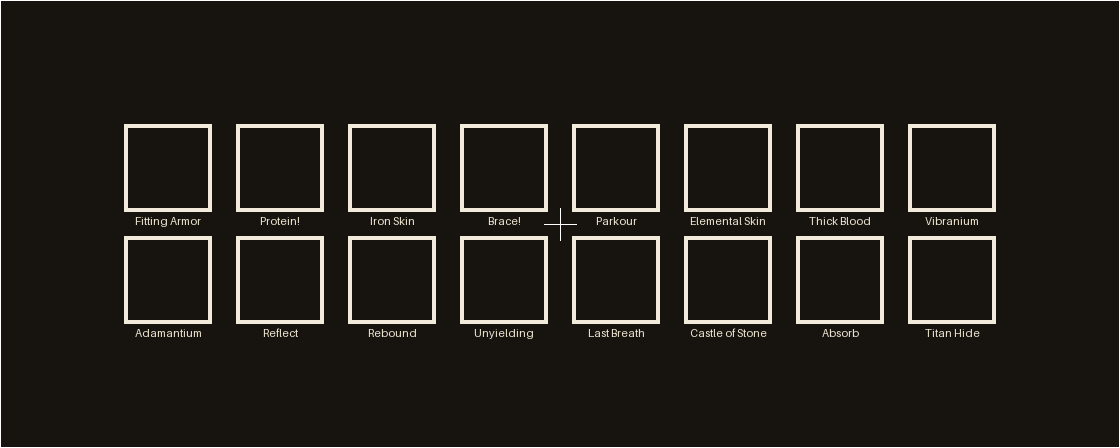
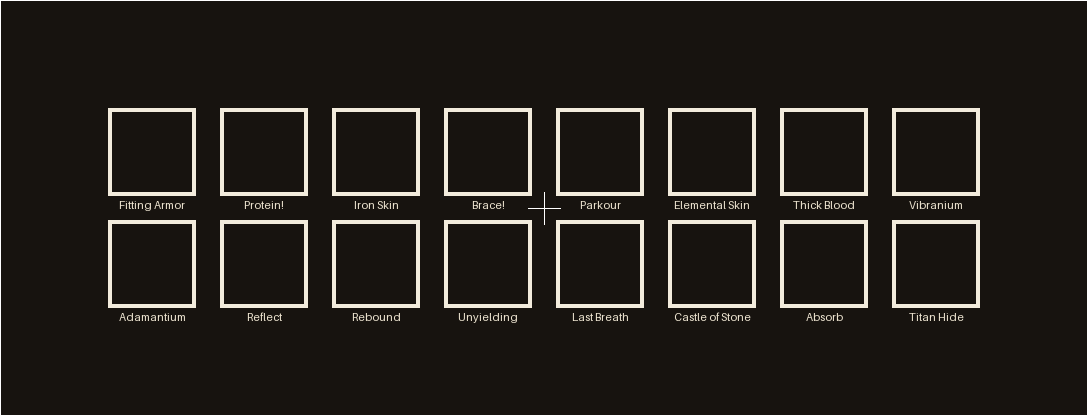
Hub: universal Majors that need a weapon sit between Master of Arms and that weapon
Batter Up!/Aura Sword (Sword), Heavy Hands (Axe), Catch! (Trident) and Death From
Above (Mace) move from the bottom row onto the line from the middle to their
weapon. Rings widened to make room; weapon names sit on the side toward the
middle. Templates redrawn (Combat 432x320).

Claude-Session: https://claude.ai/code/session_011H4pCWwvStbR6tnDaE5M5J

Changed region(s): [[0.0938, 0.25, 0.9062, 0.7812]]

diff --git a/src/client/java/com/freshorangeslices/bloomlevelup/client/gui/HubScreen.java b/src/client/java/com/freshorangeslices/bloomlevelup/client/gui/HubScreen.java
@@ -50,9 +50,10 @@ import com.freshorangeslices.bloomlevelup.progression.ProgressionService;
  * advancements screen) over the tab's own background picture (any size, centred on its Majors):
  * <ul>
  *   <li>a category with weapon trees (Combat) is a tree: the waiver Major (Master of Arms) in the middle, a node
- *   per weapon around it with that weapon's Majors just outside it, and the universal Majors in a row along
- *   the bottom. Lines run from the middle to each weapon and from each weapon to its Majors, and turn red when
- *   a Major on them is active;</li>
+ *   per weapon around it with that weapon's Majors just outside it, the universal Majors that need a weapon
+ *   (Heavy Hands, Catch!, ...) on the line between the middle and that weapon, and the rest of the universal
+ *   Majors in a row along the bottom. Lines run from the middle to each weapon and from each weapon to its
+ *   Majors, and turn red when a Major on them is active;</li>
  *   <li>other categories lay their Majors out as a grid.</li>
  * </ul>
  * A compact stats window sits in the top-left corner and folds away to give the Majors more room.
@@ -85,12 +86,17 @@ public final class HubScreen extends Screen {
 	private static final long RESULT_SHOW_MS = 3500;
 
 	/** Tree layout, in canvas coordinates with the middle (Master of Arms) at 0,0. */
-	private static final double WEAPON_RX = 100.0;
-	private static final double WEAPON_RY = 54.0;
-	private static final double MAJOR_RX = 168.0;
-	private static final double MAJOR_RY = 96.0;
-	private static final int UNIVERSALS_GAP = 30;
+	private static final double WEAPON_RX = 110.0;
+	private static final double WEAPON_RY = 72.0;
+	private static final double MAJOR_RX = 178.0;
+	private static final double MAJOR_RY = 104.0;
+	private static final int UNIVERSALS_GAP = 22;
 	private static final int UNIVERSALS_PER_ROW = 13;
+	/** How far out a weapon's universal Majors sit on the line from the middle (0) to that weapon (1). */
+	private static final double SPOKE_FRACTION = 0.55;
+	/** Room kept around a node (its glow) when working out the tab's extent. */
+	private static final int NODE_MARGIN = 14;
+	// docs/art/hub-templates/make_templates.py mirrors this layout: keep the two in step.
 
 	/** Majors per row on tabs without weapon trees (fixed, so background art can be painted around them). */
 	private static final int GRID_COLUMNS = 8;
@@ -365,10 +371,10 @@ public final class HubScreen extends Screen {
 		maxX = maxY = Integer.MIN_VALUE;
 
 		for (Node node : nodes) {
-			minX = Math.min(minX, node.x() - 16);
-			maxX = Math.max(maxX, node.x() + 16);
-			minY = Math.min(minY, node.y() - 16);
-			maxY = Math.max(maxY, node.y() + (node.group() != null ? 24 : 16));
+			minX = Math.min(minX, node.x() - NODE_MARGIN);
+			maxX = Math.max(maxX, node.x() + NODE_MARGIN);
+			minY = Math.min(minY, node.y() - NODE_MARGIN);
+			maxY = Math.max(maxY, node.y() + NODE_MARGIN);
 		}
 
 		if (nodes.isEmpty()) {
@@ -378,14 +384,25 @@ public final class HubScreen extends Screen {
 
 	private void treeLayout(List<MajorDefinition> majors) {
 		Map<String, List<MajorDefinition>> trees = new LinkedHashMap<>();
+		Map<String, List<MajorDefinition>> nearTree = new HashMap<>();
 		List<MajorDefinition> middle = new ArrayList<>();
 		List<MajorDefinition> universal = new ArrayList<>();
 
 		for (MajorDefinition major : majors) {
+			major.group().ifPresent(group -> trees.computeIfAbsent(group, k -> new ArrayList<>()).add(major));
+		}
+
+		for (MajorDefinition major : majors) {
 			if (major.group().isPresent()) {
-				trees.computeIfAbsent(major.group().get(), k -> new ArrayList<>()).add(major);
-			} else if (!major.waives().isEmpty()) {
+				continue;
+			}
+
+			String tree = weaponTreeNeeded(major);
+
+			if (!major.waives().isEmpty()) {
 				middle.add(major);
+			} else if (tree != null && trees.containsKey(tree)) {
+				nearTree.computeIfAbsent(tree, k -> new ArrayList<>()).add(major);
 			} else {
 				universal.add(major);
 			}
@@ -404,9 +421,21 @@ public final class HubScreen extends Screen {
 			double angle = -Math.PI / 2.0 + 2.0 * Math.PI * index / count;
 			int wx = (int) Math.round(Math.cos(angle) * WEAPON_RX);
 			int wy = (int) Math.round(Math.sin(angle) * WEAPON_RY);
-			List<String> ids = tree.getValue().stream().map(MajorDefinition::id).toList();
+			List<MajorDefinition> near = nearTree.getOrDefault(tree.getKey(), List.of());
+			List<String> ids = new ArrayList<>(tree.getValue().stream().map(MajorDefinition::id).toList());
+			near.forEach(major -> ids.add(major.id()));
 			nodes.add(new Node(null, tree.getKey(), wx, wy, false));
 			links.add(new Link(0, 0, wx, wy, ids));
+
+			// The universal Majors that need this weapon: on the line between the middle and the weapon, side by side.
+			double sx = Math.cos(angle) * WEAPON_RX * SPOKE_FRACTION;
+			double sy = Math.sin(angle) * WEAPON_RY * SPOKE_FRACTION;
+
+			for (int j = 0; j < near.size(); j++) {
+				double offset = (j - (near.size() - 1) / 2.0) * CELL;
+				nodes.add(new Node(near.get(j), null, (int) Math.round(sx - Math.sin(angle) * offset), (int) Math.round(sy + Math.cos(angle) * offset),
+						false));
+			}
 
 			double ax = Math.cos(angle) * MAJOR_RX;
 			double ay = Math.sin(angle) * MAJOR_RY;
@@ -438,6 +467,17 @@ public final class HubScreen extends Screen {
 			int col = k % UNIVERSALS_PER_ROW;
 			nodes.add(new Node(universal.get(k), null, (int) Math.round((col - (inRow - 1) / 2.0) * CELL), top + row * CELL, false));
 		}
+	}
+
+	/** The weapon tree a universal Major needs (its first "#tree" prerequisite), or null. */
+	private static String weaponTreeNeeded(MajorDefinition major) {
+		for (String prerequisite : major.prerequisites()) {
+			if (MajorDefinition.isGroupRef(prerequisite)) {
+				return MajorDefinition.groupOf(prerequisite);
+			}
+		}
+
+		return null;
 	}
 
 	private void gridLayout(List<MajorDefinition> majors) {
@@ -672,12 +712,14 @@ public final class HubScreen extends Screen {
 			g.item(treeItem(node.group()), cx - 8, cy - 8);
 		}
 
-		// The tree's name underneath, small, on a dark backing so it reads over lines and art.
+		// The tree's name, small, on a dark backing so it reads over lines and art; on the side toward the middle
+		// (under the weapons in the top half, over those in the bottom half), clear of the weapon's own Majors.
 		Component label = Component.literal(capitalize(treeName(node.group())));
 		int half = (int) Math.ceil(this.font.width(label) * 0.75 / 2.0) + 1;
-		g.fill(cx - half, cy + 14, cx + half, cy + 21, 0xA0000000);
+		int labelY = node.y() > 0 ? cy - 21 : cy + 14;
+		g.fill(cx - half, labelY, cx + half, labelY + 7, 0xA0000000);
 		g.pose().pushMatrix();
-		g.pose().translate(cx, cy + 15);
+		g.pose().translate(cx, labelY + 1);
 		g.pose().scale(0.75F);
 		g.centeredText(this.font, label, 0, 0, anyOwned ? TEXT : MUTED);
 		g.pose().popMatrix();

diff --git a/docs/art/hub-templates/make_templates.py b/docs/art/hub-templates/make_templates.py
@@ -20,8 +20,10 @@ OUT = pathlib.Path(__file__).resolve().parent
 
 # HubScreen constants
 CELL, ICON = 28, 22
-WEAPON_RX, WEAPON_RY, MAJOR_RX, MAJOR_RY = 100.0, 54.0, 168.0, 96.0
-UNIVERSALS_GAP, UNIVERSALS_PER_ROW, GRID_COLUMNS = 30, 13, 8
+WEAPON_RX, WEAPON_RY, MAJOR_RX, MAJOR_RY = 110.0, 72.0, 178.0, 104.0
+UNIVERSALS_GAP, UNIVERSALS_PER_ROW, GRID_COLUMNS = 22, 13, 8
+SPOKE_FRACTION = 0.55
+NODE_MARGIN = 14  # HubScreen.layout: room around a node for its glow
 MARGIN = 24  # suggested picture edge beyond the outermost node
 
 
@@ -48,6 +50,7 @@ def majors_in(tab):
             'sort': raw.get('sort', 0),
             'group': qualify(raw['group']) if 'group' in raw else None,
             'waives': raw.get('waives', []),
+            'tree': next((qualify(p[1:]) for p in raw.get('prerequisites', []) if p.startswith('#')), None),
         })
 
     return sorted(majors, key=lambda m: (m['sort'], m['id']))
@@ -62,13 +65,19 @@ def layout(majors):
             nodes.append(('major', m['id'], (k % GRID_COLUMNS) * CELL, (k // GRID_COLUMNS) * CELL))
         return nodes, lines
 
-    trees, middle, universal = {}, [], []
+    trees, middle, universal, near = {}, [], [], {}
 
     for m in majors:
         if m['group']:
             trees.setdefault(m['group'], []).append(m)
-        elif m['waives']:
+
+    for m in majors:
+        if m['group']:
+            continue
+        if m['waives']:
             middle.append(m)
+        elif m['tree'] in trees:
+            near.setdefault(m['tree'], []).append(m)
         else:
             universal.append(m)
 
@@ -80,6 +89,14 @@ def layout(majors):
         wx, wy = jround(math.cos(angle) * WEAPON_RX), jround(math.sin(angle) * WEAPON_RY)
         nodes.append(('weapon', group, wx, wy))
         lines.append((0, 0, wx, wy))
+        # Universal Majors that need this weapon: on the line between the middle and the weapon.
+        sx, sy = math.cos(angle) * WEAPON_RX * SPOKE_FRACTION, math.sin(angle) * WEAPON_RY * SPOKE_FRACTION
+        px_, py_ = -math.sin(angle), math.cos(angle)
+        dependents = near.get(group, [])
+
+        for j, m in enumerate(dependents):
+            offset = (j - (len(dependents) - 1) / 2.0) * CELL
+            nodes.append(('major', m['id'], jround(sx + px_ * offset), jround(sy + py_ * offset)))
         ax, ay = math.cos(angle) * MAJOR_RX, math.sin(angle) * MAJOR_RY
         tx, ty = -math.sin(angle) * MAJOR_RX, math.cos(angle) * MAJOR_RY
         length = max(1e-6, math.hypot(tx, ty))
@@ -110,10 +127,10 @@ def name(kind, ref):
 
 def make(tab):
     nodes, lines = layout(majors_in(tab))
-    min_x = min(x - 16 for _, _, x, _ in nodes)
-    max_x = max(x + 16 for _, _, x, _ in nodes)
-    min_y = min(y - 16 for _, _, _, y in nodes)
-    max_y = max(y + (24 if kind == 'weapon' else 16) for kind, _, _, y in nodes)
+    min_x = min(x - NODE_MARGIN for _, _, x, _ in nodes)
+    max_x = max(x + NODE_MARGIN for _, _, x, _ in nodes)
+    min_y = min(y - NODE_MARGIN for _, _, _, y in nodes)
+    max_y = max(y + NODE_MARGIN for _, _, _, y in nodes)
     # HubScreen.anchorX/Y: Java int division truncates toward zero.
     anchor_x, anchor_y = int((min_x + max_x) / 2), int((min_y + max_y) / 2)
     width = (max_x - min_x + 2 * MARGIN + 7) // 8 * 8
@@ -144,12 +161,14 @@ def make(tab):
             draw.rectangle(box, outline=colour, width=scale)
 
             if kind == 'weapon':
-                draw.rectangle([s(px(x) - 14), s(py(y) + 14), s(px(x) + 14) - 1, s(py(y) + 21) - 1], outline=(229, 147, 63, 120))
+                ly = py(y) - 21 if y > 0 else py(y) + 14  # the label sits on the side toward the middle
+                draw.rectangle([s(px(x) - 14), s(ly), s(px(x) + 14) - 1, s(ly + 7) - 1], outline=(229, 147, 63, 120))
 
             if labels:
                 text = name(kind, ref)
                 tw = draw.textlength(text, font=font)
-                draw.text((s(px(x)) - tw / 2, box[3] + 3), text, fill=colour[:3] + (255,), font=font)
+                ty = box[1] - 14 if kind == 'weapon' and y > 0 else box[3] + 3
+                draw.text((s(px(x)) - tw / 2, ty), text, fill=colour[:3] + (255,), font=font)
 
         suffix = 'template' if scale == 1 else 'guide_4x'
         image.save(OUT / f'{tab}_{suffix}.png')

diff --git a/docs/DECISIONS.md b/docs/DECISIONS.md
@@ -306,10 +306,10 @@ Rows above that these replace are marked "(see Playtest round 1)".
 
 | Topic | Decision | Where to change |
 |---|---|---|
-| Layout (confirmed) | Each tab is a canvas you drag (or scroll) around, like the advancements screen. Categories with weapon trees (Combat) are a tree: the waiver Major (Master of Arms) in the middle, the weapons on an inner ring clockwise from the top, each weapon's Majors in a short row just outside it, universal Majors in rows of up to 13 along the bottom. Other tabs are a grid of 8 per row for now. The view starts centred in the space right of the stats window (top-aligned when the tree is taller than the window) | `HubScreen.treeLayout`, `gridLayout` |
+| Layout (confirmed) | Each tab is a canvas you drag (or scroll) around, like the advancements screen. Categories with weapon trees (Combat) are a tree: the waiver Major (Master of Arms) in the middle, the weapons on an inner ring clockwise from the top, each weapon's Majors in a short row just outside it. Universal Majors that need a weapon (Batter Up! and Aura Sword: Sword; Heavy Hands: Axe; Catch!: Trident; Death From Above: Mace) sit on the line between the middle and that weapon (confirmed); the other universal Majors in rows of up to 13 along the bottom. Weapon names sit on the side toward the middle. Other tabs are a grid of 8 per row for now. The view starts centred in the space right of the stats window (top-aligned when the tree is taller than the window) | `HubScreen.treeLayout`, `gridLayout` |
 | Lines (confirmed: red when active) | Middle → each weapon and weapon → each of its Majors. Red while a Major on that line is on, dim otherwise. No lines to universal Majors: their prerequisites stay hidden | `HubScreen.drawCanvas` |
 | Stats window (confirmed) | Compact and foldable (the arrow): + above − to the left of each icon; the icon is the on/off switch with the same green/red corner dot as the Majors; Mode and Buy point stacked under the rows | `HubScreen.addStatsWindow`, `MiniButton`, `StatIcon` |
-| Background art (confirmed: a size per tab) | `textures/gui/hub/background_<tab>.png` (combat, utility, armor, misc; `background.png` for any tab without one). Any size: drawn pixel for pixel (1 picture pixel = 1 GUI pixel, like vanilla GUI art), centred on the middle of the tab's Majors and scrolling with them; plain dark around it. Suggested sizes, with guides showing every node, in `docs/art/hub-templates/` (`make_templates.py` redraws them when Majors change): Combat 416×320, Armor and Misc 280×112, Utility 224×80. Tabs without weapon trees use a fixed 8 Majors per row so the guides stay true on every screen. Until a tab has art: the advancements screen's stone, darkened | `HubScreen.drawBackground`, `docs/art/hub-templates/` |
+| Background art (confirmed: a size per tab) | `textures/gui/hub/background_<tab>.png` (combat, utility, armor, misc; `background.png` for any tab without one). Any size: drawn pixel for pixel (1 picture pixel = 1 GUI pixel, like vanilla GUI art), centred on the middle of the tab's Majors and scrolling with them; plain dark around it. Suggested sizes, with guides showing every node, in `docs/art/hub-templates/` (`make_templates.py` redraws them when Majors change): Combat 432×320, Armor and Misc 272×104, Utility 216×80. Tabs without weapon trees use a fixed 8 Majors per row so the guides stay true on every screen. Until a tab has art: the advancements screen's stone, darkened | `HubScreen.drawBackground`, `docs/art/hub-templates/` |
 | Weapon nodes | In vanilla's advancement goal frame (gold once you own a Major in that tree). Art `textures/icon/tree/<weapon>.png` (64×64; sword, axe, bow, crossbow, trident, mace, spear, unarmed); until then the vanilla item (a player head for Unarmed). Master of Arms sits in the challenge frame | `HubScreen.drawWeaponNode` |
 | Screenshots in CI | The client test shoots the Combat tree at 1920×1080, GUI scale 3 and 4; the client-test workflow's `screenshots` job prints them as base64 JPEG annotations so they can be checked without downloading artifacts | `BloomClientGameTests`, `.github/scripts/emit_screenshot.py` |
 
